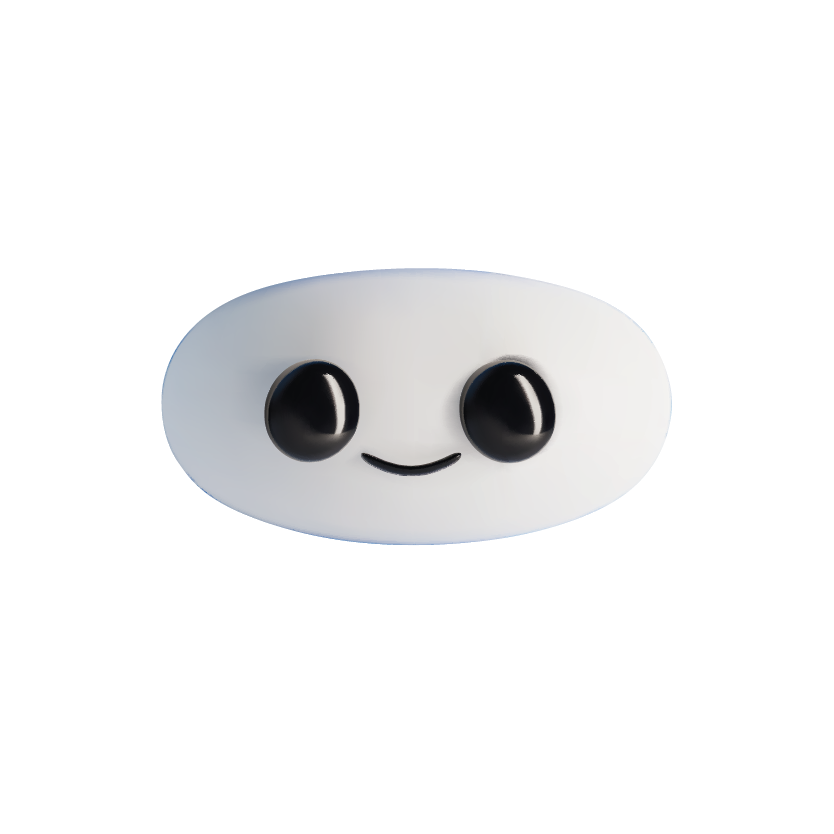
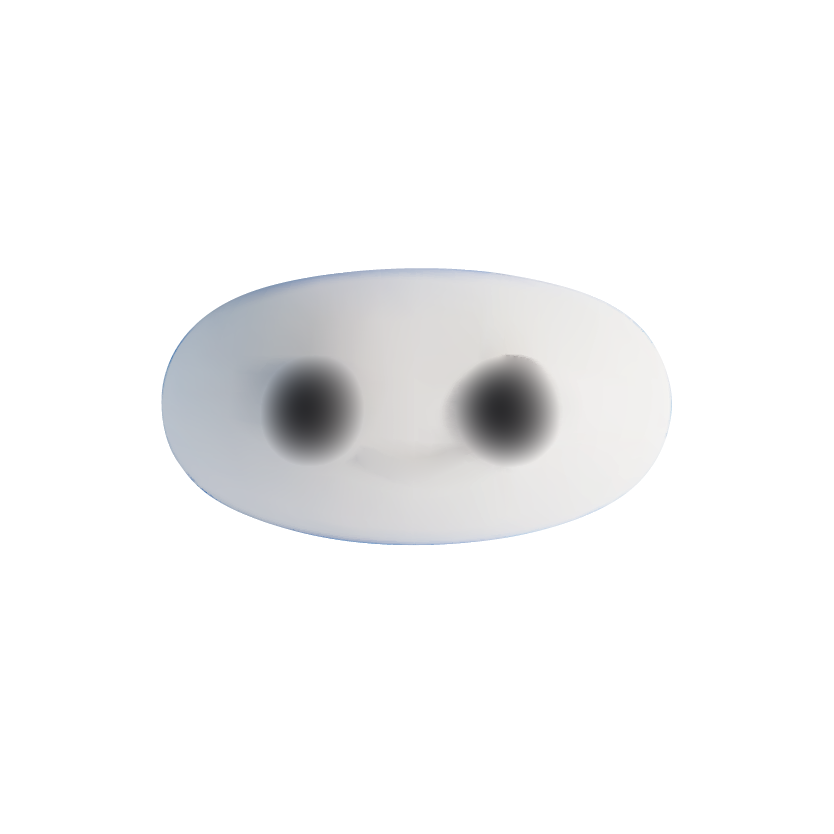
fix(mascot): remove baked-in eyes from face plate for clean blinking and fix full body placement under head

Changed region(s): [[0.3118, 0.4053, 0.6859, 0.5923]]

diff --git a/src/Components/AI/SheypoorMascot.jsx b/src/Components/AI/SheypoorMascot.jsx
@@ -360,17 +360,11 @@ export default function SheypoorMascot({ onClick, isOpen, isProcessing }) {
             transition={{ type: "spring", stiffness: 160, damping: 14 }}
           />
 
-          {/* Top Antenna / Hat (Proportioned to head tip) */}
+          {/* Top Antenna / Hat (Proportioned on canvas) */}
           <motion.img
             src="/AI-MASCAT/hat.png"
             alt="Hat"
-            className="absolute object-contain pointer-events-none drop-shadow-sm origin-[50%_90%]"
-            style={{
-              width: "28%",
-              height: "22%",
-              top: "1.5%",
-              left: "36%",
-            }}
+            className="absolute inset-0 w-full h-full object-contain pointer-events-none drop-shadow-sm origin-[50%_20%]"
             animate={{
               rotate: isProcessing
                 ? [-10, 10, -10] // Wobbling antenna when thinking!

diff --git a/src/pages/MascotLab.jsx b/src/pages/MascotLab.jsx
@@ -482,13 +482,7 @@ const mascotConfig = ${JSON.stringify(tweaks, null, 2)};`;
                 <motion.img
                   src="/AI-MASCAT/hat.png"
                   alt="Hat"
-                  className="absolute object-contain pointer-events-none drop-shadow-md origin-[50%_90%]"
-                  style={{
-                    width: `${tweaks.hatWidth}%`,
-                    height: `${tweaks.hatHeight}%`,
-                    top: `${tweaks.hatTop}%`,
-                    left: `${tweaks.hatLeft}%`,
-                  }}
+                  className="absolute inset-0 w-full h-full object-contain pointer-events-none drop-shadow-md origin-[50%_20%]"
                   animate={{
                     rotate:
                       activeVariant === "thinking"
